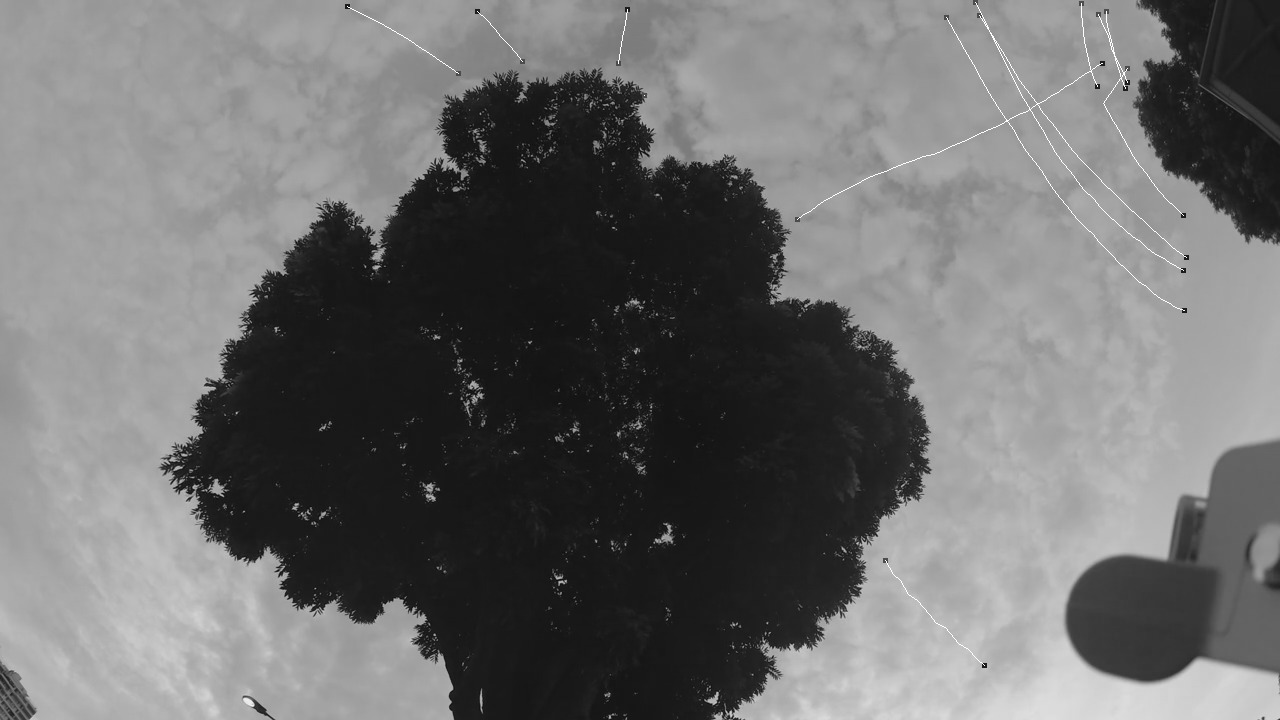
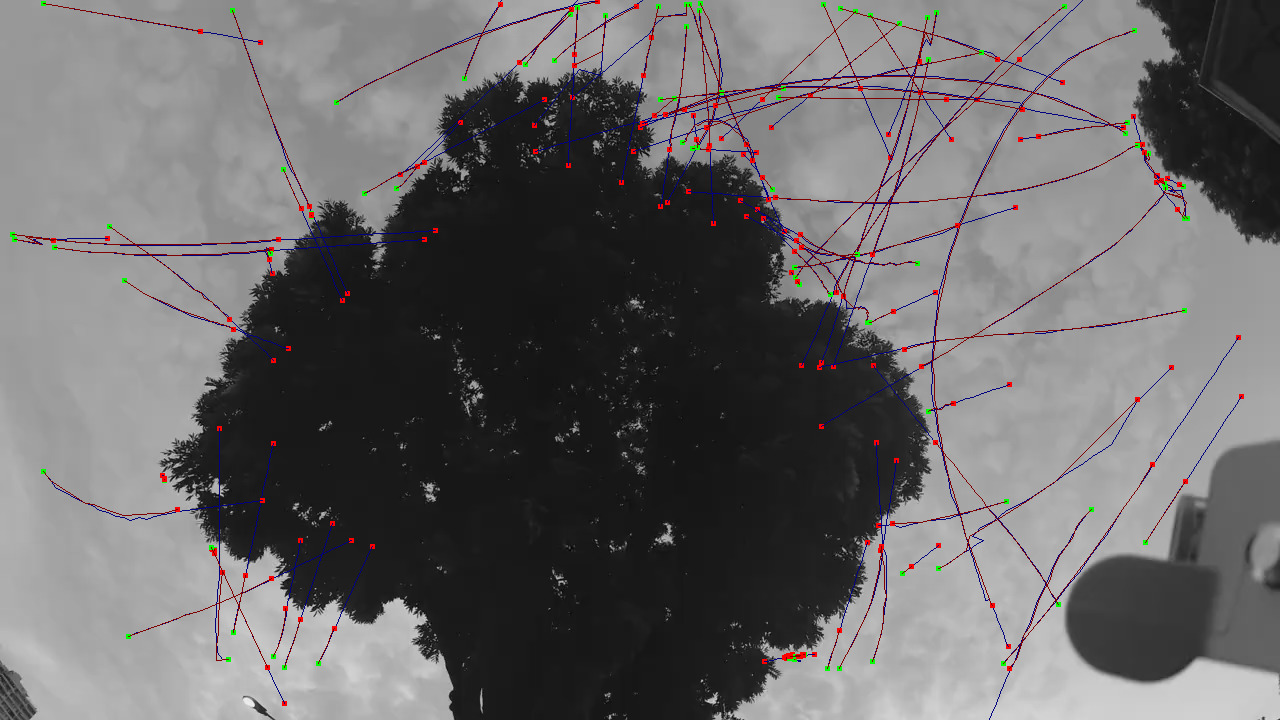
update img in readme

diff --git a/README.md b/README.md
@@ -4,9 +4,9 @@
 [![Codecov](https://codecov.io/gh/baggepinnen/BlobTracking.jl/branch/master/graph/badge.svg)](https://codecov.io/gh/baggepinnen/BlobTracking.jl)
 
 
-Detect and track blobs (like birds or bugs) moving around in an image. Blobs are detected using simple [Laplacian-of-Gaussian filtering](https://en.wikipedia.org/wiki/Blob_detection) (from [Images.jl](https://juliaimages.org/latest/function_reference/#Images.blob_LoG)) and tracked using a Kalman filter from [LowLevelParticleFilters.jl](https://github.com/baggepinnen/LowLevelParticleFilters.jl).
+Detect and track [blobs](https://en.wikipedia.org/wiki/Blob_detection) (like birds or bugs) moving around in an image. Blobs are detected using simple [Laplacian-of-Gaussian filtering](https://en.wikipedia.org/wiki/Blob_detection) (from [Images.jl](https://juliaimages.org/latest/function_reference/#Images.blob_LoG)) and tracked using a Kalman filter from [LowLevelParticleFilters.jl](https://github.com/baggepinnen/LowLevelParticleFilters.jl).
 
-This package contains some facilities for the afromentioned detection and tracking, as well as some utilities for background removal etc.
+This package contains some facilities for the aforementioned detection and tracking, as well as some utilities for background removal etc.
 
 
 
@@ -93,9 +93,10 @@ draw!(drawimg, traces, c=RGB(0,0,0.5))
 draw!(drawimg, measurement_traces, c=RGB(0.5,0,0))
 ```
 ![window](figs/traces.jpg)
+In the image, green dots represent spawning positions and red dots the last obtained measurement for a blob in case of the red measurement traces, and the point at which the blob was killed in case of the blue location traces.
 
 ## Further documentation
-Most functions have docstrings. Docstrings of types hints at what functions you can call on instances of the type. The types present in this package are
+Most functions have docstrings. Docstrings of types hint at what functions you can call on instances of the type. The types present in this package are
 - `Blob`
 - `BlobTracker`
 - `TrackingResult`
